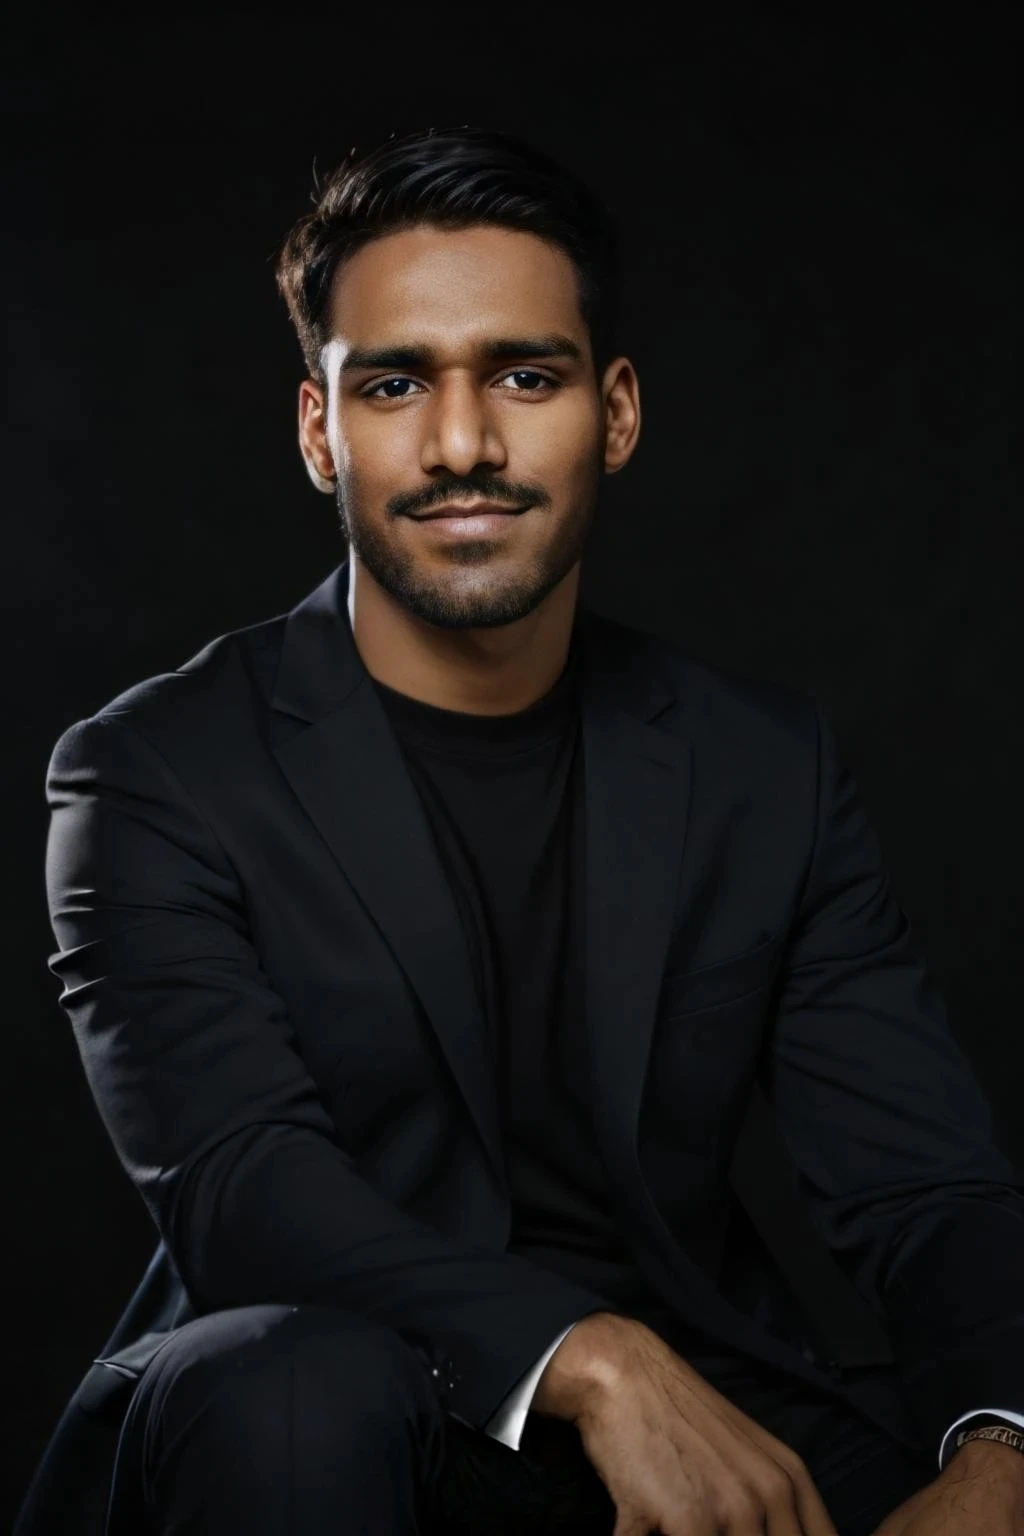
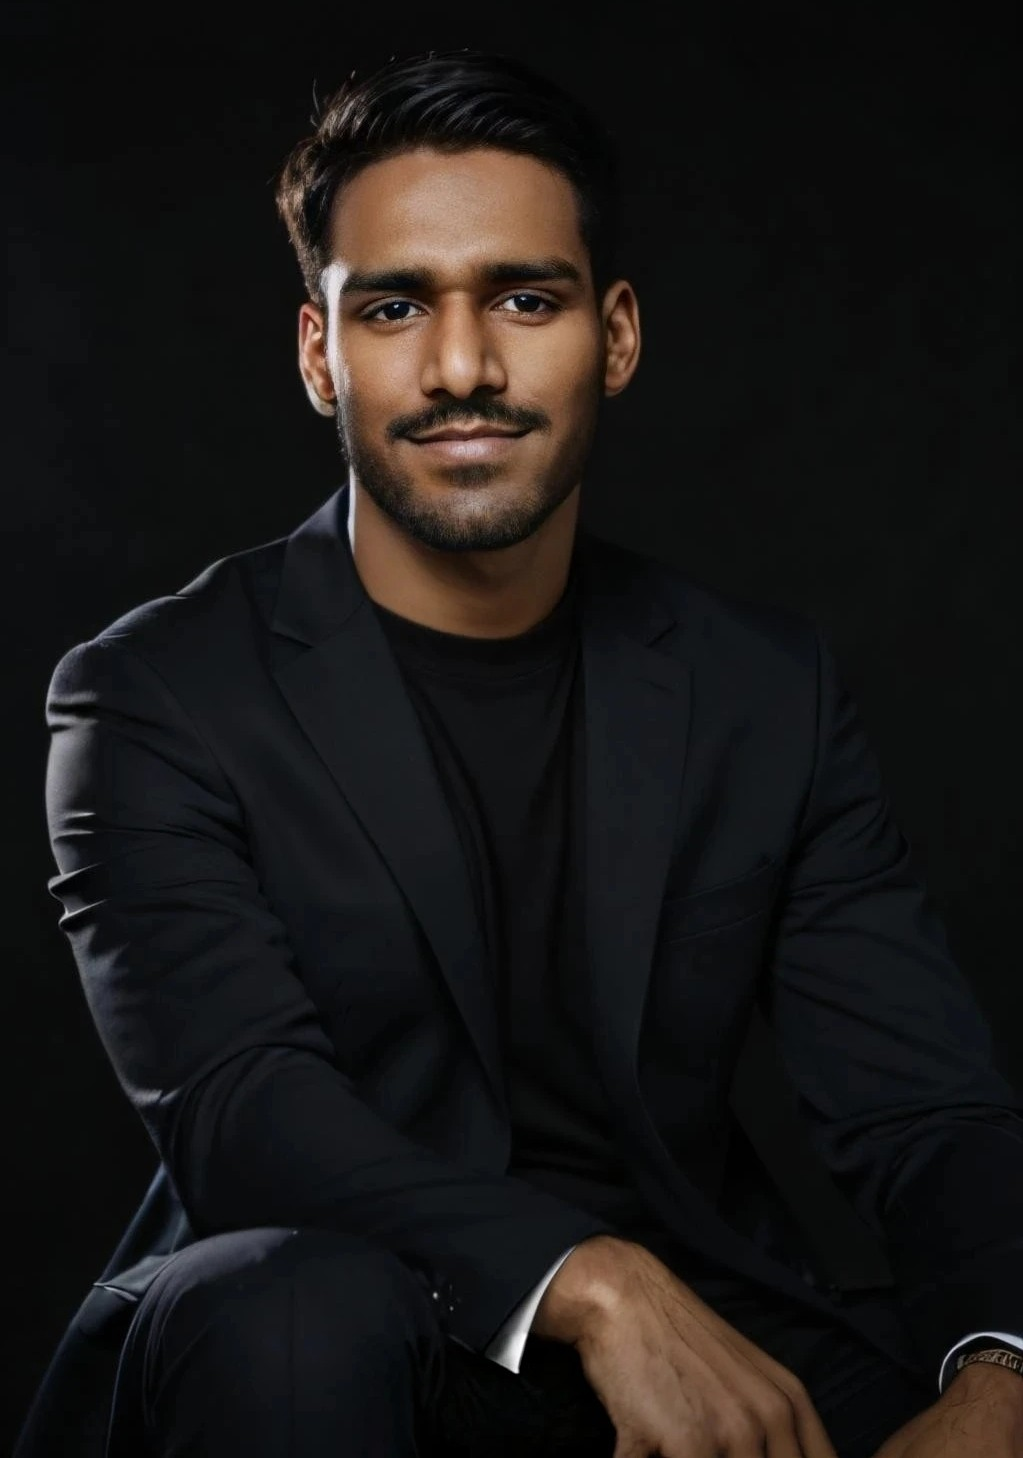
updated the photo frame

diff --git a/index.html b/index.html
@@ -229,7 +229,7 @@
       font-weight: 800;
       font-size: 17px;
       color: var(--primary);
-      letter-spacing: -0.5px;
+      letter-spacing: 0px;
       line-height: 1;
     }
 
@@ -237,7 +237,7 @@
       font-family: var(--font-mono);
       font-size: 13px;
       color: var(--cyan);
-      letter-spacing: 0.2em;
+      letter-spacing: 0.05em;
       margin-top: 3px;
       text-transform: uppercase;
     }
@@ -590,76 +590,61 @@
     }
 
     /* Hero photo */
+    /* Mobile photo — circled */
+    .mobile-photo-wrap {
+      display: none;
+      width: 100px;
+      height: 100px;
+      border-radius: 50%;
+      padding: 3px;
+      background: linear-gradient(135deg, var(--primary), var(--cyan));
+      box-shadow: 0 10px 30px rgba(0,0,0,0.3), 0 0 20px var(--primary-glow);
+      margin-bottom: 24px;
+    }
+
+    .mobile-photo-wrap img {
+      width: 100%;
+      height: 100%;
+      border-radius: 50%;
+      object-fit: cover;
+      object-position: top center;
+      display: block;
+      background: var(--surface);
+    }
+
+    /* Hero photo — clean with thin gradient ring */
     .hero-photo-wrap {
       position: relative;
+      padding: 3px;
+      border-radius: 22px;
+      background: linear-gradient(135deg, #ff8f6f, #00e5ff);
+      box-shadow:
+        0 0 30px rgba(255,143,111,0.25),
+        0 20px 50px rgba(0,0,0,0.4);
+      transition: box-shadow 0.4s;
+      margin-top: -24px;
+    }
+
+    .hero-photo-wrap:hover {
+      box-shadow:
+        0 0 50px rgba(255,143,111,0.25),
+        0 0 20px rgba(0,229,255,0.2),
+        0 24px 60px rgba(0,0,0,0.5);
     }
 
     .hero-photo-frame {
-      position: relative;
       border-radius: 20px;
       overflow: hidden;
-      aspect-ratio: 4/5;
-      border: 1px solid var(--border);
+      aspect-ratio: 4/4.5;
+      background: var(--surface);
     }
 
     .hero-photo-frame img {
       width: 100%;
       height: 100%;
       object-fit: cover;
-      filter: grayscale(0.3);
-      transition: filter 0.6s;
-    }
-
-    .hero-photo-frame:hover img {
-      filter: grayscale(0);
-    }
-
-    .hero-photo-gradient {
-      position: absolute;
-      inset: 0;
-      background: linear-gradient(to top, rgba(8, 8, 8, 0.8) 0%, transparent 50%);
-    }
-
-    .hero-photo-badge {
-      position: absolute;
-      bottom: 20px;
-      left: 20px;
-      background: rgba(8, 8, 8, 0.75);
-      backdrop-filter: blur(12px);
-      border: 1px solid rgba(0, 229, 255, 0.2);
-      border-radius: 10px;
-      padding: 10px 16px;
-      display: flex;
-      align-items: center;
-      gap: 10px;
-    }
-
-    .hero-photo-badge span {
-      font-family: var(--font-mono);
-      font-size: 13px;
-      text-transform: uppercase;
-      letter-spacing: 0.1em;
-      color: var(--text);
-    }
-
-    /* Decorative ring */
-    .hero-ring {
-      position: absolute;
-      right: -40px;
-      bottom: -40px;
-      width: 180px;
-      height: 180px;
-      border: 1px solid rgba(255, 143, 111, 0.08);
-      border-radius: 50%;
-      pointer-events: none;
-    }
-
-    .hero-ring::after {
-      content: '';
-      position: absolute;
-      inset: 20px;
-      border: 1px solid rgba(255, 143, 111, 0.05);
-      border-radius: 50%;
+      object-position: top center;
+      display: block;
     }
 
     /* ── Section base ── */
@@ -1661,6 +1646,11 @@
     @media (max-width: 1024px) {
       .hero-grid {
         grid-template-columns: 1fr;
+        text-align: left;
+      }
+
+      .mobile-photo-wrap {
+        display: inline-block;
       }
 
       .hero-photo-wrap {
@@ -1718,7 +1708,7 @@
 
       .nav-logo-title {
         font-size: 10px;
-        letter-spacing: 0.05em;
+        letter-spacing: 0.07em;
         margin-top: 1px;
       }
 
@@ -1949,7 +1939,7 @@
   <nav id="navbar">
     <a class="nav-logo" href="#">
       <span class="nav-logo-name">Nandeeswar Reddy Polu</span>
-      <span class="nav-logo-title">DevOps · Cloud Engineer</span>
+      <span class="nav-logo-title">DevOps·Cloud Engineer</span>
     </a>
     <ul class="nav-links">
       <li><a href="#Skills">Skills</a></li>
@@ -2000,6 +1990,9 @@
     <div class="hero-grid">
       <!-- Left -->
       <div>
+        <div class="mobile-photo-wrap reveal">
+          <img src="assets/profile-rectangle.jpg" alt="Nandeeswar Reddy Polu" />
+        </div>
         <div class="hero-badge reveal">
           <span class="hero-badge-dot"></span>
           Available for High-Impact Roles
@@ -2075,13 +2068,7 @@
           <img
             src="assets/profile-rectangle.jpg"
             alt="Nandeeswar Reddy Polu" />
-          <div class="hero-photo-gradient"></div>
-          <div class="hero-photo-badge">
-            <span class="hero-badge-dot"></span>
-            <span>System Health: Optimal</span>
-          </div>
         </div>
-        <div class="hero-ring"></div>
       </div>
     </div>
   </section>
